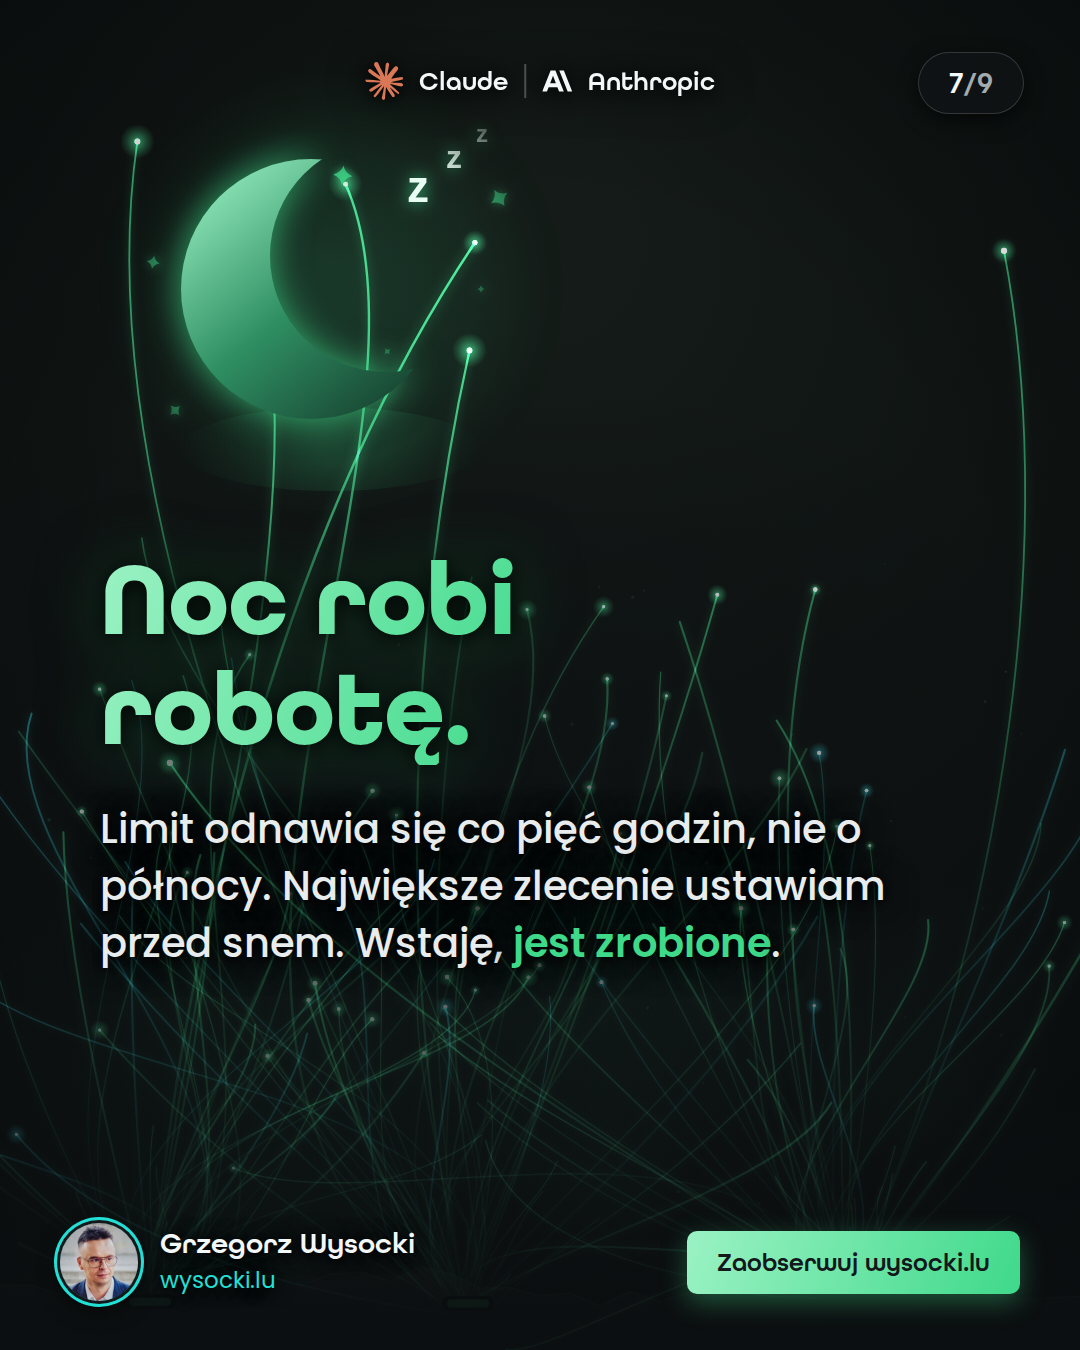
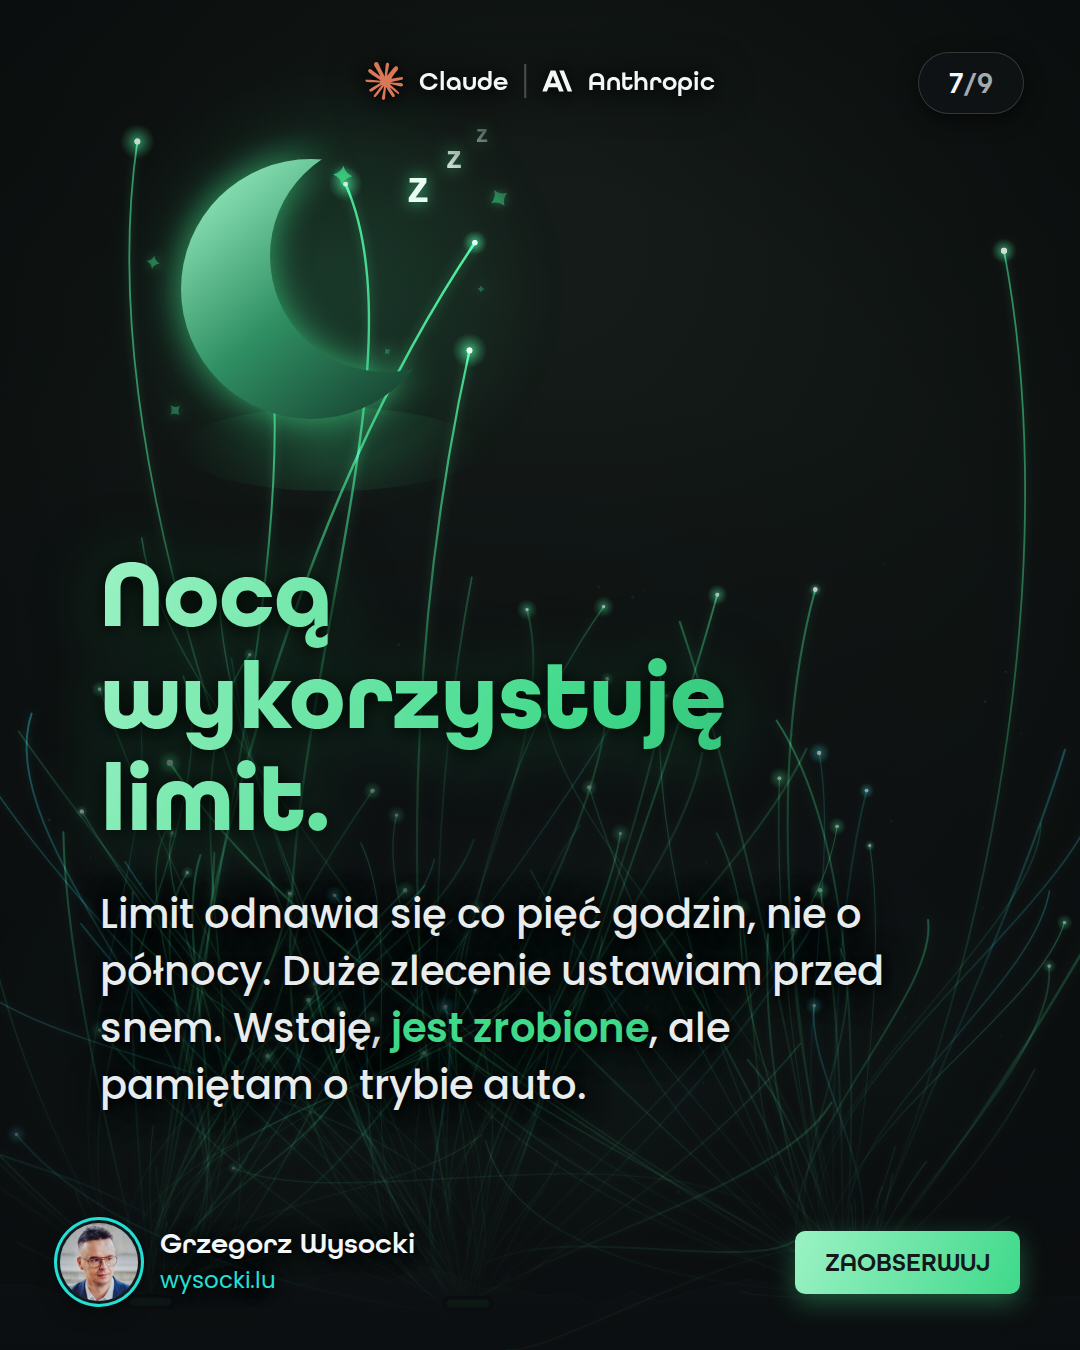
tmp: poprawki jezykowe autora (7 zasad, zdechl, ZAOBSERWUJ)
Claude-Session: https://claude.ai/code/session_01VLdxJwrEUDSQYqUjMPfjQ4

Changed region(s): [[0.0917, 0.4044, 0.825, 0.84], [0.6111, 0.9022, 0.9167, 0.9956]]

diff --git a/index.html b/index.html
@@ -36,13 +36,11 @@ h2{font-size:15px;font-weight:600;margin:28px 0 10px;border-left:3px solid #3FD9
   <a class="card" href="out-tk/slajd-tk-s9.png" download><img src="out-tk/slajd-tk-s9.png" alt="Slajd 9 — CTA"><div class="cap"><b>9</b> · CTA</div></a>
 </div>
 <h2>Opis posta</h2>
-<div class="opis" id="opis">W środku roboty wyskoczyło mi „limit reached". Wkurzyłem się i sprawdziłem, na co realnie schodzą tokeny w Claude.
+<div class="opis" id="opis">W środku roboty wyskoczyło mi „limit reached". Claude zdechł, a ja sprawdziłem, na co realnie poszły tokeny i zoptymalizowałem. Mam teraz 7 zasad: nowa sesja zamiast ciągnięcia starej, edycja pytania zamiast dopisywania, trzy sprawy w jednej wiadomości, Haiku do drobiazgów, stałe pliki w Projekcie, ciężkie zlecenia na noc i krótki styl odpowiedzi.
 
-Wyszło z tego 7 nawyków, które od tamtej pory stosuję codziennie: nowy czat zamiast ciągnięcia starego wątku, edycja pytania zamiast dopisywania, trzy sprawy w jednej wiadomości, Haiku do drobiazgów, stałe pliki w Projekcie, ciężkie zlecenia na noc i krótki styl odpowiedzi.
+Szczegóły są na slajdach, każda zasada osobno.
 
-Szczegóły są na slajdach, każdy nawyk osobno.
-
-Testuję Claude po polsku, na własnych projektach, i wrzucam takie rzeczy regularnie. Zaobserwuj mnie, jak chcesz być na bieżąco.
+Testuję Claude po polsku na własnych projektach i wrzucam takie rzeczy regularnie. Zaobserwuj mnie jak chcesz być na bieżąco.
 
 #claudeai #claude #anthropic #sztucznainteligencja #aitools #narzedziaai #produktywnosc #aipoludzku</div>
 <button class="kopiuj" onclick="navigator.clipboard.writeText(document.getElementById('opis').innerText).then(()=>{this.textContent='Skopiowano ✓';setTimeout(()=>this.textContent='Kopiuj opis',1600)})">Kopiuj opis</button>

diff --git a/README.md b/README.md
@@ -20,13 +20,11 @@
 ## Opis posta (skopiuj)
 
 ```text
-W środku roboty wyskoczyło mi „limit reached". Wkurzyłem się i sprawdziłem, na co realnie schodzą tokeny w Claude.
+W środku roboty wyskoczyło mi „limit reached". Claude zdechł, a ja sprawdziłem, na co realnie poszły tokeny i zoptymalizowałem. Mam teraz 7 zasad: nowa sesja zamiast ciągnięcia starej, edycja pytania zamiast dopisywania, trzy sprawy w jednej wiadomości, Haiku do drobiazgów, stałe pliki w Projekcie, ciężkie zlecenia na noc i krótki styl odpowiedzi.
 
-Wyszło z tego 7 nawyków, które od tamtej pory stosuję codziennie: nowy czat zamiast ciągnięcia starego wątku, edycja pytania zamiast dopisywania, trzy sprawy w jednej wiadomości, Haiku do drobiazgów, stałe pliki w Projekcie, ciężkie zlecenia na noc i krótki styl odpowiedzi.
+Szczegóły są na slajdach, każda zasada osobno.
 
-Szczegóły są na slajdach, każdy nawyk osobno.
-
-Testuję Claude po polsku, na własnych projektach, i wrzucam takie rzeczy regularnie. Zaobserwuj mnie, jak chcesz być na bieżąco.
+Testuję Claude po polsku na własnych projektach i wrzucam takie rzeczy regularnie. Zaobserwuj mnie jak chcesz być na bieżąco.
 
 #claudeai #claude #anthropic #sztucznainteligencja #aitools #narzedziaai #produktywnosc #aipoludzku
 ```
